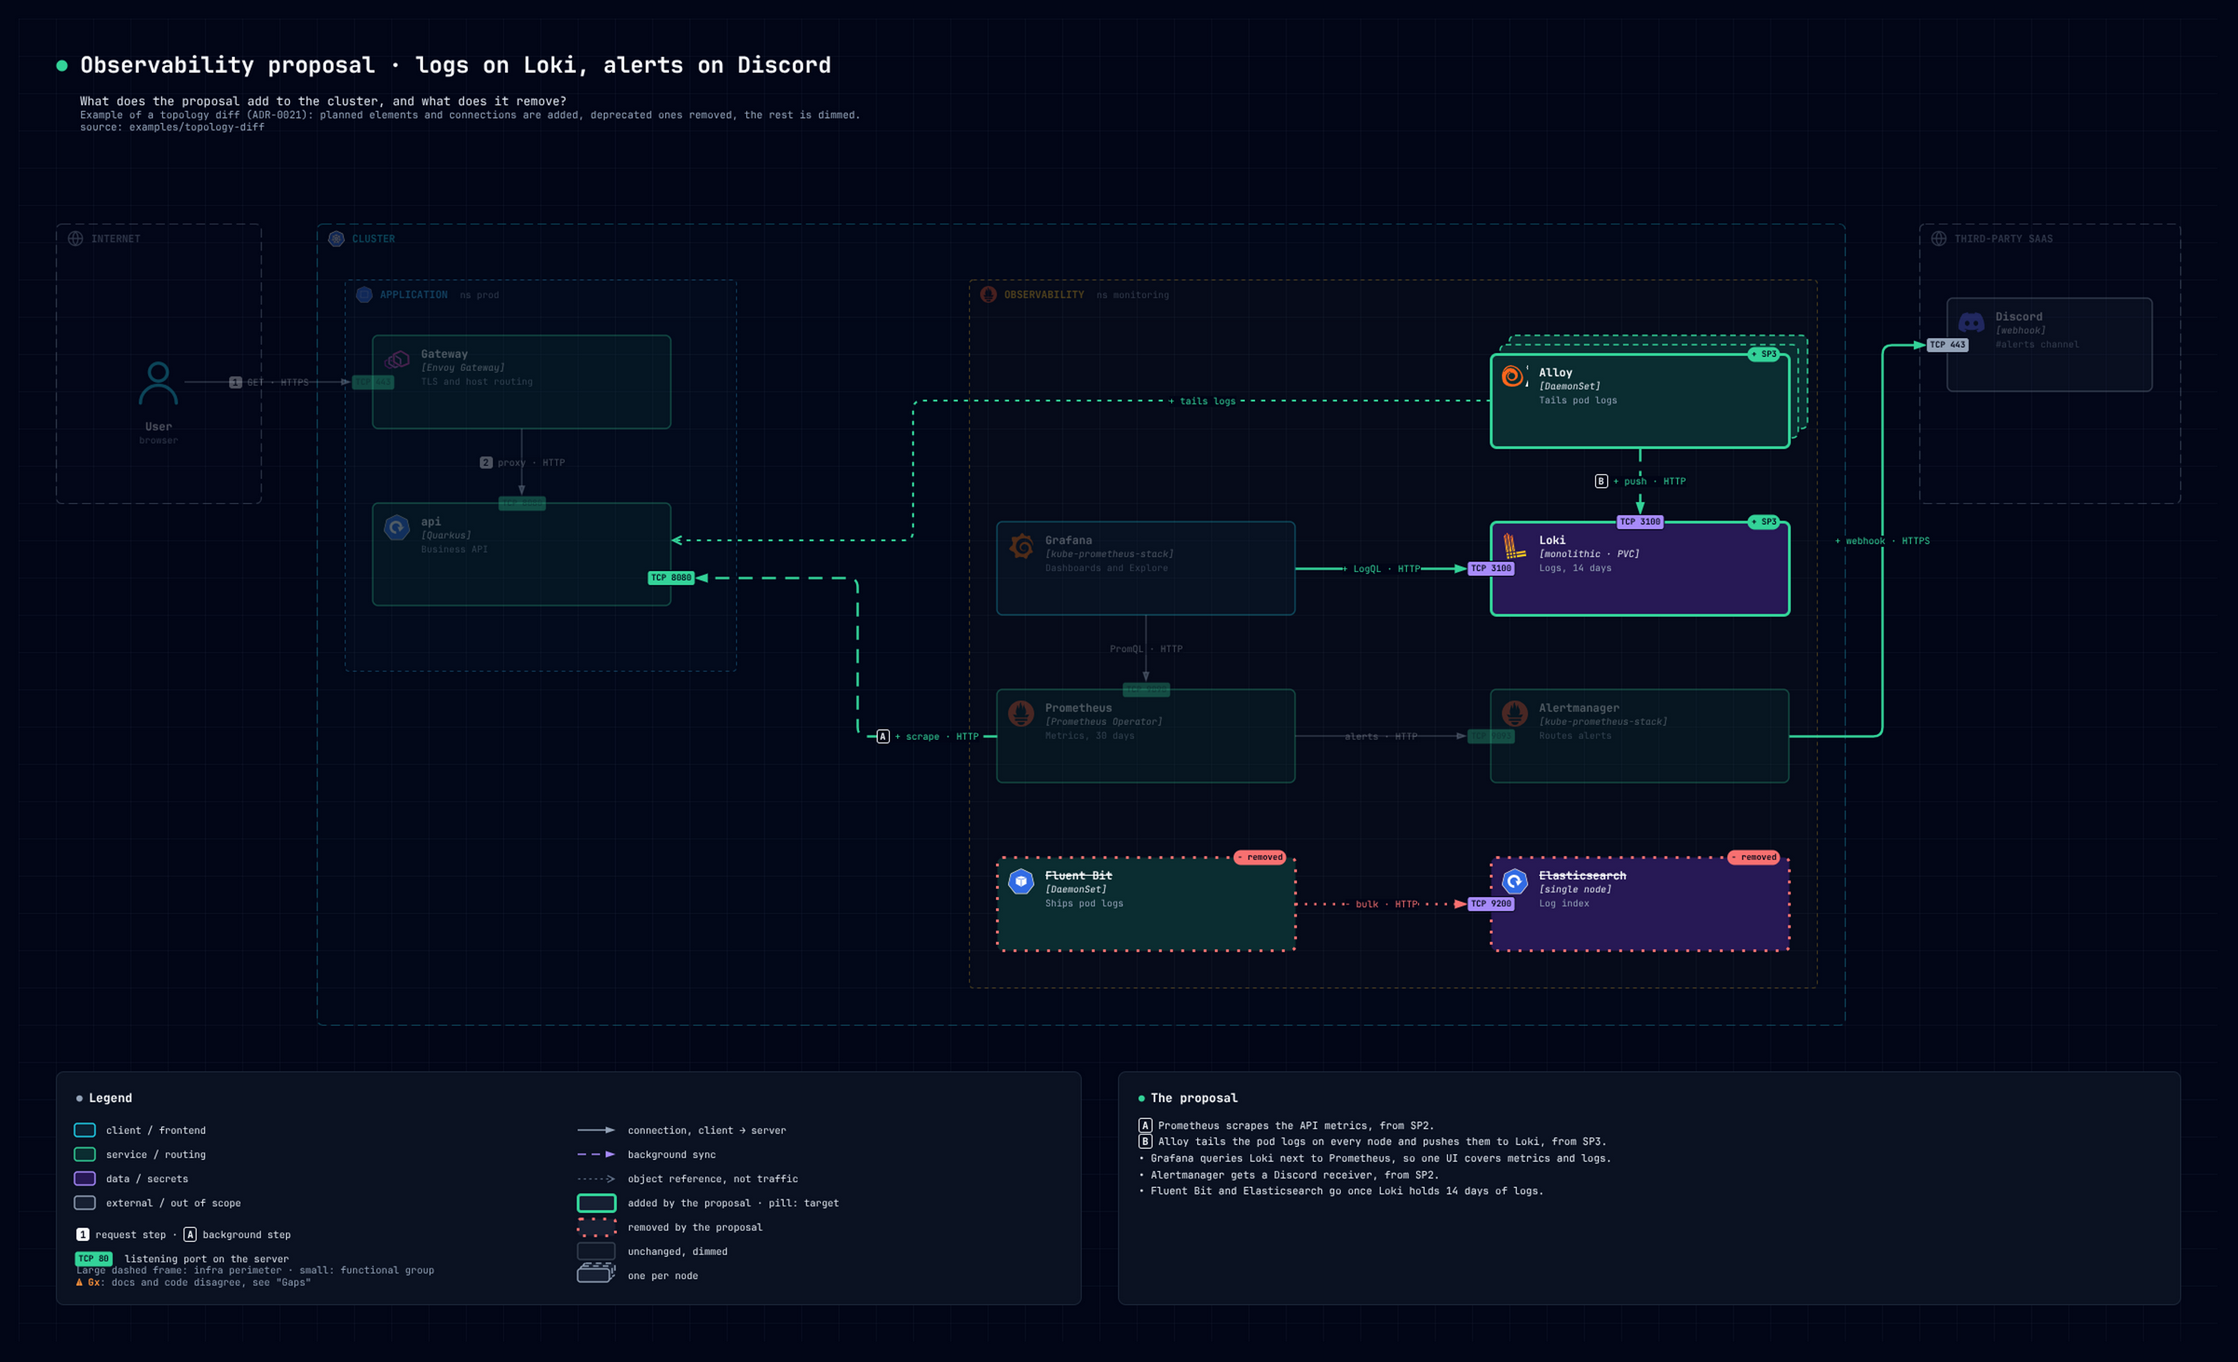
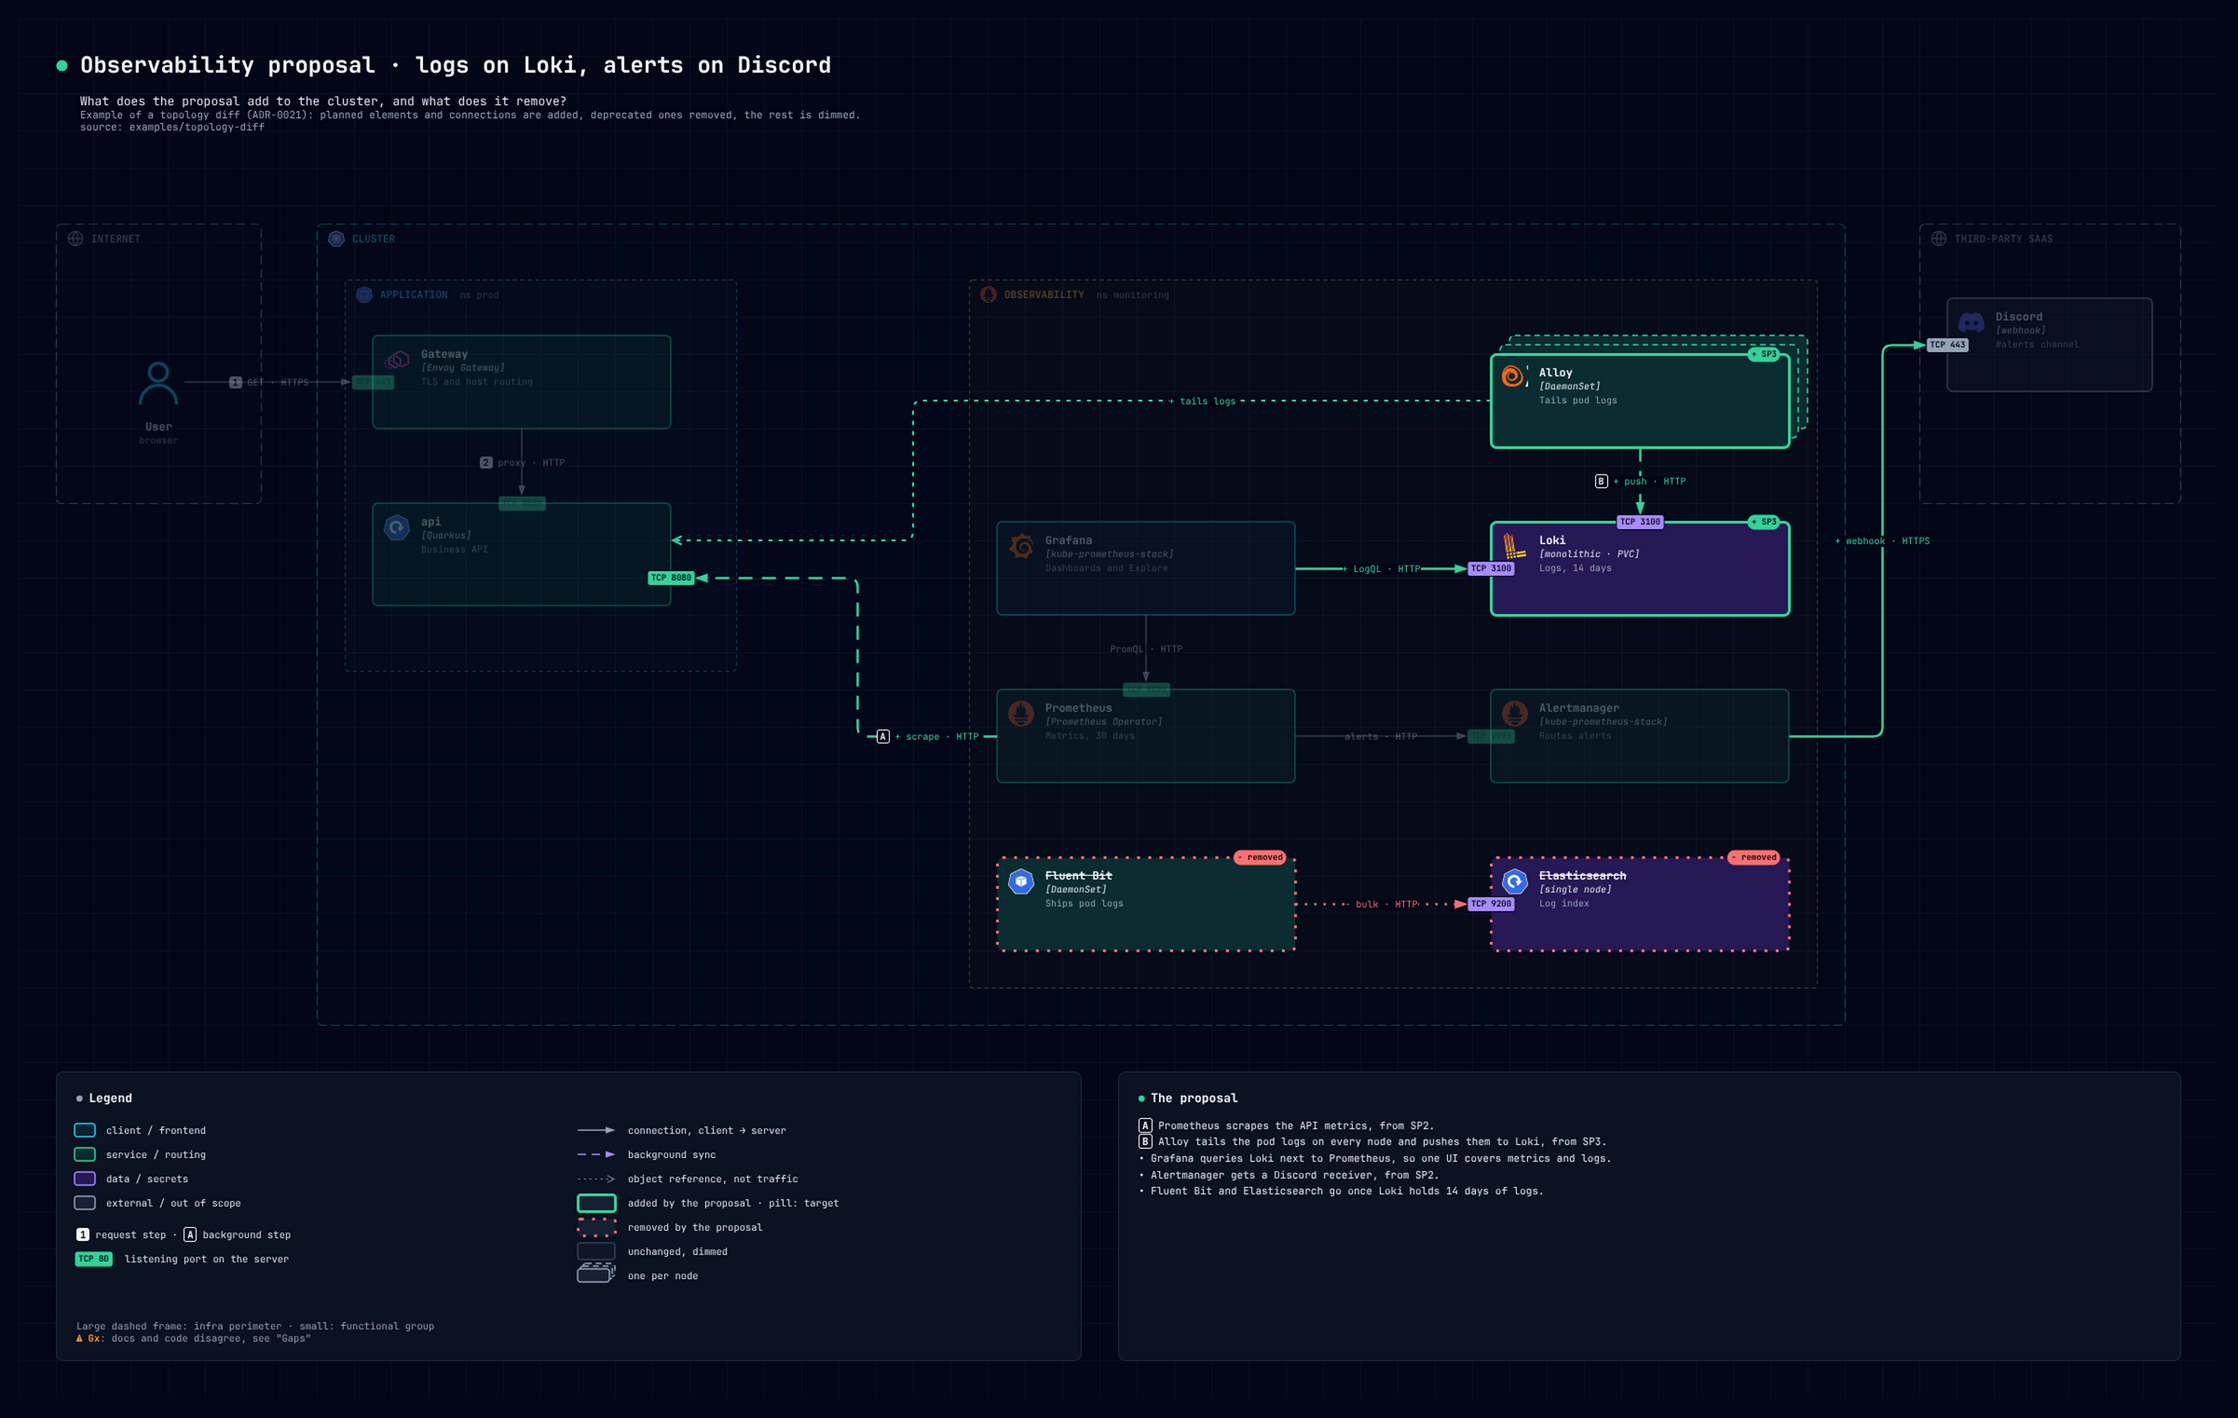
feat(render): highlight a subset of a topology view
Claude-Session: https://claude.ai/code/session_014bie9BvjV4ck8267LGp5yW

diff --git a/internal/resolve/resolve.go b/internal/resolve/resolve.go
@@ -52,6 +52,11 @@ func Topology(s *model.System, viewID string) (*diagram.Spec, error) {
 		ID: v.ID, Title: v.Title, Subtitle: v.Subtitle, Meta: v.Meta,
 		Width: l.Canvas.Width, Height: l.Canvas.Height, Diff: v.State == "diff",
 	}
+	lit := map[string]bool{}
+	for _, id := range s.Highlighted(v) {
+		lit[id] = true
+	}
+	out.Highlight = len(lit) > 0
 	shown := map[string]bool{}
 	for _, id := range s.Included(v) {
 		shown[id] = true
@@ -69,7 +74,7 @@ func Topology(s *model.System, viewID string) (*diagram.Spec, error) {
 		if e.IsZone() {
 			out.Zones = append(out.Zones, diagram.Zone{
 				ID: e.ID, Kind: e.Kind, Label: e.Title, Sub: e.Sub, Color: e.Color, Icon: e.Icon,
-				Status: status, Target: target, Change: diffChange(out.Diff, status),
+				Status: status, Target: target, Change: highlightChange(out.Highlight, lit[e.ID], diffChange(out.Diff, status)),
 				X: box.X, Y: box.Y, W: box.W, H: box.H,
 			})
 			continue
@@ -77,11 +82,11 @@ func Topology(s *model.System, viewID string) (*diagram.Spec, error) {
 		out.Nodes = append(out.Nodes, diagram.Node{
 			ID: e.ID, Kind: e.Kind, Shape: e.Shape, Icon: e.Icon, Title: e.Title, Tech: e.Tech,
 			Desc: e.Desc, Badge: strings.Join(badges[e.ID], " "),
-			Status: status, Target: target, Multiplicity: e.Multiplicity, Change: diffChange(out.Diff, status),
+			Status: status, Target: target, Multiplicity: e.Multiplicity, Change: highlightChange(out.Highlight, lit[e.ID], diffChange(out.Diff, status)),
 			X: box.X, Y: box.Y, W: box.W, H: box.H,
 		})
 	}
-	edges, err := r.edges(shown, badges, out.Diff)
+	edges, err := r.edges(shown, badges, out.Diff, lit)
 	if err != nil {
 		return nil, err
 	}
@@ -155,11 +160,24 @@ func diffChange(diff bool, status string) string {
 	}
 }
 
+// highlightChange dims what lies outside a highlight and shows in full what lies inside,
+// unless a diff marks it added or removed (ADR-0022).
+func highlightChange(highlight, inside bool, change string) string {
+	switch {
+	case !highlight || change == diagram.Added || change == diagram.Removed:
+		return change
+	case inside:
+		return ""
+	default:
+		return diagram.Unchanged
+	}
+}
+
 // changePrefix starts the label of an added or removed edge, so the change does not rest
 // on colour alone (ADR-0006).
 var changePrefix = map[string]string{diagram.Added: "+ ", diagram.Removed: "− "}
 
-func (r *resolver) edges(shown map[string]bool, badges map[string][]string, diff bool) ([]diagram.Edge, error) {
+func (r *resolver) edges(shown map[string]bool, badges map[string][]string, diff bool, lit map[string]bool) ([]diagram.Edge, error) {
 	steps := map[string]string{}
 	for i, st := range r.v.Steps {
 		steps[st.Connection] = strconv.Itoa(i + 1)
@@ -181,7 +199,7 @@ func (r *resolver) edges(shown map[string]bool, badges map[string][]string, diff
 			label = override
 		}
 		st, _ := r.s.EdgeStatus(from, to, status, target)
-		ch := diffChange(diff, st)
+		ch := highlightChange(len(lit) > 0, lit[from] || lit[to], diffChange(diff, st))
 		label = changePrefix[ch] + label
 		if step, ok := steps[id]; ok {
 			label = "[" + step + "] " + label

diff --git a/cmd/noodle/render.go b/cmd/noodle/render.go
@@ -500,7 +500,7 @@ func (r *renderer) portBadges() {
 		host, _ := r.spec.AnchorRect(b.Node)
 		st := style("rounded=1", "absoluteArcSize=1", "arcSize=6", "html=1", "fillColor="+r.kindStrokeOf(b.Node), "strokeColor="+r.th.Background,
 			"strokeWidth=1", "align=center", "verticalAlign=middle", "fontStyle=1", font(house.PortFontSize, r.th.PortText), "movable=0", "resizable=0")
-		if r.spec.Diff && !lit[b.ID] {
+		if (r.spec.Diff || r.spec.Highlight) && !lit[b.ID] {
 			st += dim
 		}
 		r.vertex(b.ID, b.Node, html.EscapeString(b.Text), st, b.Rect.X-host.X, b.Rect.Y-host.Y, b.Rect.W, b.Rect.H)
@@ -610,9 +610,12 @@ func (r *renderer) legendStatuses(x, y, w float64) {
 		used[z.Status] = true
 	}
 	k := r.th.Nodes["external"]
-	if r.spec.Diff {
+	switch {
+	case r.spec.Diff:
 		y = r.legendChanges(x, y, w)
 		used = nil
+	case r.spec.Highlight:
+		y = r.legendDimmed(x, y, w)
 	}
 	if used["planned"] {
 		r.vertex("legend-planned", "1", "", style("rounded=1", "absoluteArcSize=1", "arcSize=6", "fillColor="+r.th.Hatch)+hatch+
@@ -654,8 +657,19 @@ func (r *renderer) legendChanges(x, y, w float64) float64 {
 	r.vertex("legend-removed", "1", "", box+style("strokeColor="+r.th.Diff[diagram.Removed], "strokeWidth=3", "dashed=1", "dashPattern="+dotted), x, y+2, 40, 18)
 	r.legendText("legend-removed-text", "removed by the proposal", x+52, y, w)
 	y += 26
-	r.vertex("legend-unchanged", "1", "", box+style("strokeColor="+k.Stroke, "strokeWidth=1.5")+dim, x, y+2, 40, 18)
-	r.legendText("legend-unchanged-text", "unchanged, dimmed", x+52, y, w)
+	return r.legendDimmed(x, y, w)
+}
+
+// legendDimmed explains the faded boxes: unchanged in a diff, outside the highlight
+// otherwise (ADR-0021, ADR-0022).
+func (r *renderer) legendDimmed(x, y, w float64) float64 {
+	k := r.th.Nodes["external"]
+	text := "unchanged, dimmed"
+	if r.spec.Highlight {
+		text = "outside the highlight, dimmed"
+	}
+	r.vertex("legend-unchanged", "1", "", style("rounded=1", "absoluteArcSize=1", "arcSize=6", "fillColor="+k.Fill, "strokeColor="+k.Stroke, "strokeWidth=1.5")+dim, x, y+2, 40, 18)
+	r.legendText("legend-unchanged-text", text, x+52, y, w)
 	return y + 26
 }
 

diff --git a/internal/model/check.go b/internal/model/check.go
@@ -216,6 +216,12 @@ func (c *checker) checkView(v *View) {
 		}
 		c.mustElement(file, v.ID, "include", strings.TrimSuffix(inc, "/**"))
 	}
+	if len(v.Highlight) > 0 && v.Type != "topology" {
+		c.errf(file, v.ID, "highlight is for topology views only (ADR-0022)")
+	}
+	for _, h := range v.Highlight {
+		c.mustElement(file, v.ID, "highlight", strings.TrimSuffix(h, "/**"))
+	}
 	if v.Columns != 0 && (v.Type != "catalog" || v.Columns < 1 || v.Columns > 4) {
 		c.errf(file, v.ID, "columns is for catalog views, from 1 to 4")
 	}
@@ -514,6 +520,24 @@ func (s *System) EdgeStatus(from, to, status, target string) (string, string) {
 
 // Included returns the element ids a view shows, sorted. No include means all.
 func (s *System) Included(v *View) []string {
+	if len(v.Include) == 0 {
+		ids := make([]string, 0, len(s.Model.Elements))
+		for _, e := range s.Model.Elements {
+			ids = append(ids, e.ID)
+		}
+		sort.Strings(ids)
+		return ids
+	}
+	return s.expand(v.Include)
+}
+
+// Highlighted returns the element ids a view highlights, sorted; none without highlight.
+func (s *System) Highlighted(v *View) []string {
+	return s.expand(v.Highlight)
+}
+
+// expand resolves ids and zone/** patterns to element ids, sorted.
+func (s *System) expand(patterns []string) []string {
 	elements := map[string]bool{}
 	children := map[string][]string{}
 	for _, e := range s.Model.Elements {
@@ -521,9 +545,6 @@ func (s *System) Included(v *View) []string {
 		if e.Parent != "" {
 			children[e.Parent] = append(children[e.Parent], e.ID)
 		}
-	}
-	if len(v.Include) == 0 {
-		return sortedKeys(elements)
 	}
 	out := map[string]bool{}
 	var walk func(string)
@@ -536,7 +557,7 @@ func (s *System) Included(v *View) []string {
 			walk(ch)
 		}
 	}
-	for _, inc := range v.Include {
+	for _, inc := range patterns {
 		if root, ok := strings.CutSuffix(inc, "/**"); ok {
 			walk(root)
 		} else if elements[inc] {

diff --git a/internal/resolve/resolve_test.go b/internal/resolve/resolve_test.go
@@ -190,3 +190,51 @@ func TestTopology_LeavesChangesEmpty_OutsideADiffView(t *testing.T) {
 		assert.Empty(t, n.Change, n.ID)
 	}
 }
+
+func changesOf(spec *diagram.Spec) map[string]string {
+	out := map[string]string{}
+	for _, z := range spec.Zones {
+		out[z.ID] = z.Change
+	}
+	for _, n := range spec.Nodes {
+		out[n.ID] = n.Change
+	}
+	for _, e := range spec.Edges {
+		out[e.ID] = e.Change
+	}
+	return out
+}
+
+func TestTopology_ShowsTheHighlightInFull_AndDimsTheRest(t *testing.T) {
+	t.Parallel()
+	s, err := model.LoadSystem("testdata/diff-small")
+	require.NoError(t, err)
+	require.Empty(t, model.Check(s))
+
+	got, err := resolve.Topology(s, "highlight")
+
+	require.NoError(t, err)
+	assert.Equal(t, [2]bool{false, true}, [2]bool{got.Diff, got.Highlight})
+	assert.Equal(t, map[string]string{
+		"z": diagram.Unchanged, "obs": "", "live": diagram.Unchanged, "db": diagram.Unchanged,
+		"new": "", "old": diagram.Unchanged,
+		"c-live-db": diagram.Unchanged, "c-new-live": "", "c-live-old": diagram.Unchanged,
+		"c-db-live": diagram.Unchanged, "r-new-db": "",
+	}, changesOf(got))
+}
+
+func TestTopology_KeepsAddedAndRemoved_WhenADiffHasAHighlight(t *testing.T) {
+	t.Parallel()
+	s, err := model.LoadSystem("testdata/diff-small")
+	require.NoError(t, err)
+
+	got, err := resolve.Topology(s, "diff-highlight")
+
+	require.NoError(t, err)
+	assert.Equal(t, map[string]string{
+		"z": diagram.Unchanged, "obs": diagram.Added, "live": "", "db": diagram.Unchanged,
+		"new": diagram.Added, "old": diagram.Removed,
+		"c-live-db": "", "c-new-live": diagram.Added, "c-live-old": diagram.Removed,
+		"c-db-live": diagram.Added, "r-new-db": diagram.Added,
+	}, changesOf(got))
+}

diff --git a/internal/model/check_test.go b/internal/model/check_test.go
@@ -164,6 +164,12 @@ func TestCheck_ReportsFileIDAndReason(t *testing.T) {
 			filepath.Join("views", "v.yaml"), "v", `state "later", want current, target or diff`},
 		{"diff state on a topology view", baseModel, baseView + "state: diff\n", baseLayout,
 			"", "", ""},
+		{"highlight on a topology view", baseModel, baseView + "highlight: [z/**]\n", baseLayout,
+			"", "", ""},
+		{"highlight of a missing element", baseModel, baseView + "highlight: [x/**]\n", baseLayout,
+			filepath.Join("views", "v.yaml"), "v", `highlight "x" does not exist in the model`},
+		{"highlight on a catalog view", baseModel, viewHead + "type: catalog\nhighlight: [a]\n", "",
+			filepath.Join("views", "v.yaml"), "v", "highlight is for topology views only (ADR-0022)"},
 		{"current state on a topology view", baseModel, baseView + "state: current\n", baseLayout,
 			filepath.Join("views", "v.yaml"), "v", `state "current", a topology view takes diff only (ADR-0021)`},
 		{"state on a catalog view", baseModel, viewHead + "type: catalog\nstate: diff\n", "",

diff --git a/internal/model/model.go b/internal/model/model.go
@@ -205,12 +205,15 @@ type View struct {
 	APIVersion string `yaml:"apiVersion"`
 	Kind       string `yaml:"kind"`
 	// ID is the file stem, not a field: renaming the file renames the view.
-	ID           string            `yaml:"-"`
-	Type         string            `yaml:"type"`
-	Title        string            `yaml:"title"`
-	Subtitle     string            `yaml:"subtitle"`
-	Meta         []string          `yaml:"meta"`
-	Include      []string          `yaml:"include"`
+	ID       string   `yaml:"-"`
+	Type     string   `yaml:"type"`
+	Title    string   `yaml:"title"`
+	Subtitle string   `yaml:"subtitle"`
+	Meta     []string `yaml:"meta"`
+	Include  []string `yaml:"include"`
+	// Highlight keeps these elements, and the edges that touch them, in full; the rest of
+	// a topology view is dimmed (ADR-0022). Same patterns as Include.
+	Highlight    []string          `yaml:"highlight"`
 	Steps        []Step            `yaml:"steps"`
 	Background   []string          `yaml:"background"`
 	Labels       map[string]string `yaml:"labels"`

diff --git a/internal/diagram/diagram.go b/internal/diagram/diagram.go
@@ -43,6 +43,9 @@ type Spec struct {
 	// Diff is set on a topology view in state diff (ADR-0021): every zone, node and edge
 	// then carries a Change.
 	Diff bool `yaml:"-"`
+	// Highlight is set when the view highlights some elements (ADR-0022): what lies
+	// outside carries Unchanged and is dimmed, in a diff or not.
+	Highlight bool `yaml:"-"`
 }
 
 // Changes of a topology diff (ADR-0021).

diff --git a/docs/adr/0022-view-highlight.md b/docs/adr/0022-view-highlight.md
@@ -1,0 +1,31 @@
+# ADR-0022 · A topology view can highlight one domain
+
+- Status: Accepted
+- Date: 2026-10-02
+- Extends: ADR-0021
+
+## Context
+
+ADR-0021 dims everything a proposal leaves unchanged. Reviewing an observability
+proposal on the whole PAE platform, the reader also wants the existing observability
+(Prometheus, Grafana, Alertmanager, Gatus) in full next to what the proposal adds, and the
+rest of the platform as context. A diff alone cannot say that: those boxes are unchanged.
+The vision lists the same need as "focus" for the viewer (phase 3).
+
+## Decision
+
+- **`highlight: [ids]` on topology views**, with the patterns of `include` (`zone/**` for
+  a subtree). It is a reading choice, so it lives in the view, not in the model.
+- An element in the highlight is drawn in full. An edge is in full when either end is
+  highlighted: the flows into and out of a domain are part of it. Everything else is
+  dimmed, at ADR-0021's 30 %.
+- **With `state: diff`**, added and removed keep their frame wherever they are; the
+  highlight only decides what else stays in full. Without a diff, planned and deprecated
+  keep their ADR-0008 style inside the highlight.
+- The legend reads "outside the highlight, dimmed" for the faded sample.
+
+## Consequences
+
+- One layout serves a reference view, a diff and a focused diff of the same platform.
+- Phase 3's interactive focus can set this field from a click.
+- `v1alpha1` addition, no version bump.

diff --git a/docs/PROGRESS.md b/docs/PROGRESS.md
@@ -37,6 +37,11 @@ decisions go in ADRs, acceptance in `features.json`.
 - Every existing example renders byte-identical to main in both themes.
 - `examples/topology-diff`: a proposal and its reference view over one model, in
   init.sh and CI. Next: use it for the PAE observability proposal.
+- ADR-0022: `highlight: [ids]` on topology views, with include's patterns. Highlighted
+  elements and every edge touching them stay in full, the rest is dimmed; a diff keeps
+  its added and removed frames. Asked by Brian to show the whole observability domain of
+  the PAE platform, existing and proposed. `examples/topology-diff` view `focus`, P5a-05
+  passes; existing examples still byte-identical to main. Not committed yet.
 
 ### 2026-10-02 · Access matrix (spec 004)
 

diff --git a/skills/noodle-diagram/reference.md b/skills/noodle-diagram/reference.md
@@ -117,6 +117,8 @@ scope, version and source, one line each).
 | `cards` | `[{id, title, color, legend, lines}]`: `legend: true` generates the legend |
 | `state` | `diff` draws a proposal (ADR-0021): `planned` as added (change-coloured frame, `+ target` pill, `+` label), `deprecated` as removed (red dotted frame, struck, `−`), the rest dimmed. Absent: ADR-0008 hatch and dots |
 
+| `highlight` | element ids or `zone/**` (ADR-0022): they and every edge touching them stay in full, the rest is dimmed. With `state: diff`, added and removed keep their frames wherever they are |
+
 A proposal is a copy of the reference view with `state: diff`, over the same model and a
 copy of its layout. When the plan ships, drop the statuses: both views show the new platform.
 

diff --git a/docs/adr/README.md b/docs/adr/README.md
@@ -26,5 +26,6 @@ that supersedes the old one.
 | [0019](0019-access-grants-and-matrix.md) | Access grants live in the model; a matrix view shows them | Accepted |
 | [0020](0020-access-matrix-before-graph.md) | The access matrix is built now, on its own traversal | Accepted |
 | [0021](0021-topology-diff-state.md) | A topology view can show a proposal as a diff | Accepted |
+| [0022](0022-view-highlight.md) | A topology view can highlight one domain | Accepted |
 
 Template: Context · Decision · Consequences. Keep it under a page.
